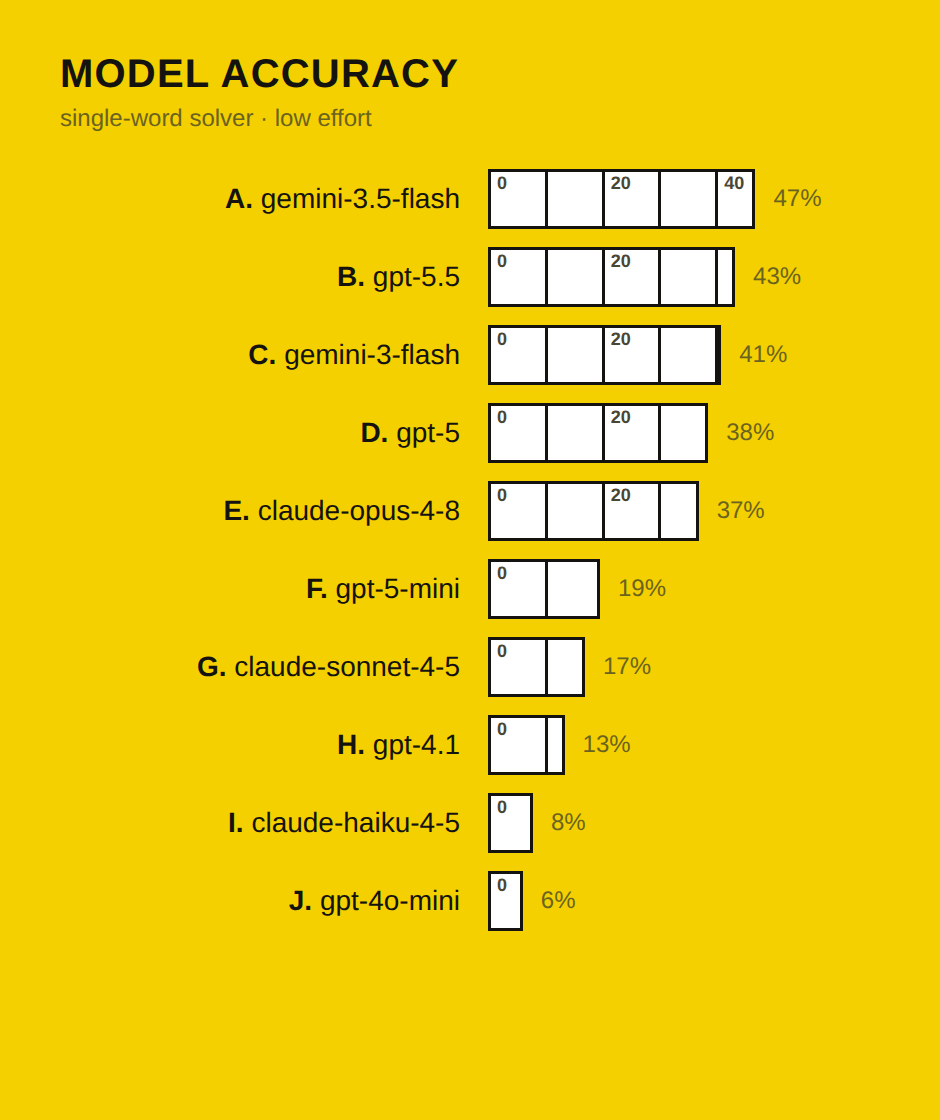
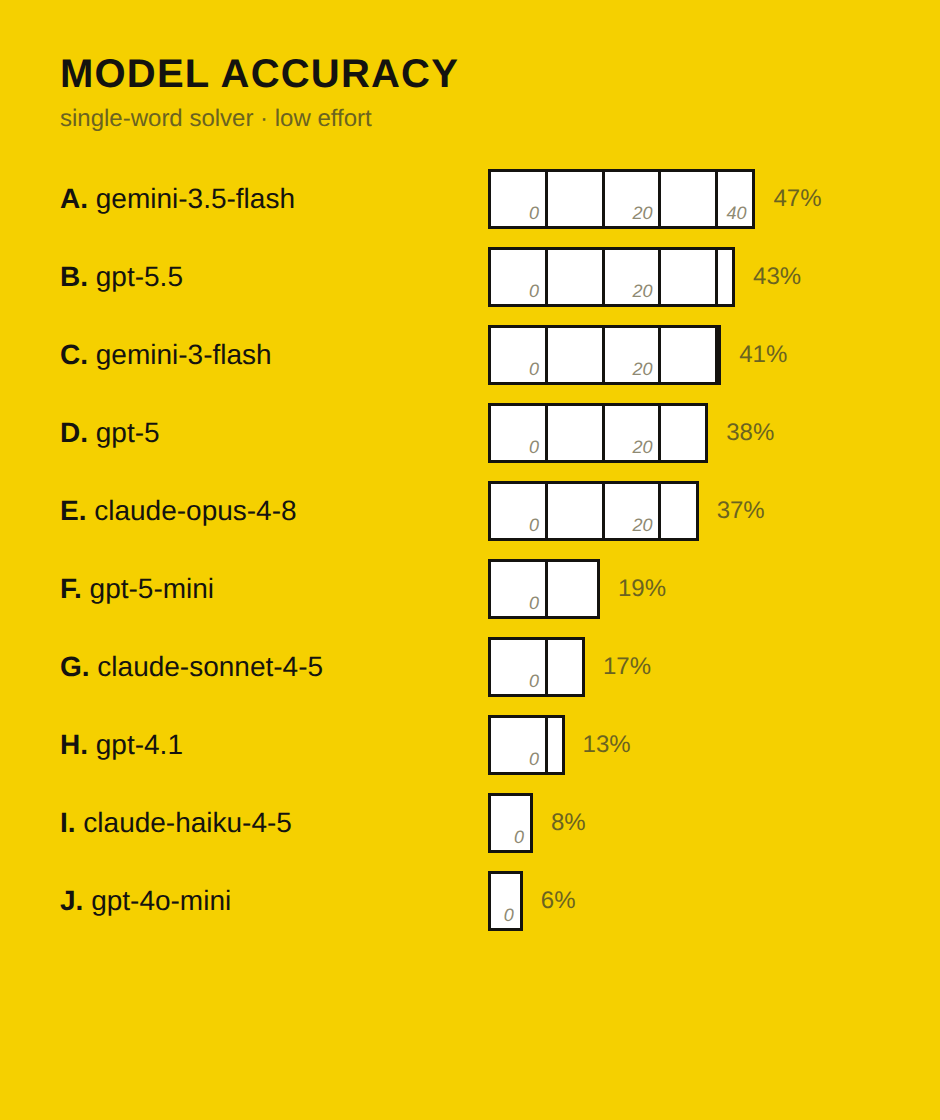
Refine puzzle charts per review
- All colors centralized in one :root block (easy re-theming).
- Bar: left-aligned clue labels; hint numbers italic light-grey, bottom-right.
- Scatter: y-axis up-arrow fixed; axis cells now bordered (like the solution
  word); ticks restyled as bottom-right italic hints; legend overlaid top-right
  (numbers + labels only, no cells).
- Heatmap: greyscale cells (axes stay yellow), square axis cells, contrast-aware
  hint values.

diff --git a/viz/puzzle-charts.css b/viz/puzzle-charts.css
@@ -1,17 +1,25 @@
 /* Karel's Crypto — puzzle-themed chart styles (no dependencies).
    Theme: De Standaard "Karels Crypto": vivid yellow ground, white puzzle cells
-   with shared dark gridlines, small corner "hint" numbers, clue-style labels. */
+   with shared dark gridlines, small corner "hint" numbers, clue-style labels.
 
+   ┌─────────────────────────────────────────────────────────────────────┐
+   │ ALL COLORS ARE CONFIGURED HERE. Change these to re-theme every chart. │
+   └─────────────────────────────────────────────────────────────────────┘ */
 :root {
-  --pz-yellow: #f5d000;        /* puzzle ground */
-  --pz-light: #fbec9c;         /* highlighted "solution word" cells / axes */
-  --pz-ink: #14130f;           /* gridlines + text */
-  --pz-hint: #4a4634;          /* corner hint numbers */
-  --pz-cell: 30px;             /* default cell size */
-  --pz-border: 1.6px;          /* gridline thickness */
-  /* heatmap ramp (pale -> deep gold) */
-  --pz-hm-low: 255, 248, 209;
-  --pz-hm-high: 226, 150, 0;
+  --pz-yellow: #f5d000;          /* puzzle ground (all chart backgrounds) */
+  --pz-light: #fbec9c;           /* highlighted "solution word" cells / axes */
+  --pz-ink: #14130f;             /* gridlines + primary text */
+  --pz-muted: #6a6320;           /* subtitles + bar value labels */
+  --pz-hint: #8f8a73;            /* the small italic "hint" numbers */
+  --pz-hint-on-dark: #e7e3d2;    /* hint numbers on dark heatmap cells */
+  --pz-cell-bg: #ffffff;         /* puzzle cell fill */
+
+  /* heatmap ramp — greyscale (low -> high). Axes stay yellow (--pz-light). */
+  --pz-hm-low: 240, 239, 234;    /* near-white */
+  --pz-hm-high: 51, 50, 46;      /* near-black */
+
+  --pz-cell: 30px;               /* default cell size */
+  --pz-border: 1.6px;            /* gridline thickness */
 }
 
 .pz {
@@ -19,46 +27,29 @@
   color: var(--pz-ink);
   -webkit-font-smoothing: antialiased;
 }
+.pz-panel { background: var(--pz-yellow); padding: 26px 30px; display: inline-block; box-sizing: border-box; }
+.pz-title { margin: 0 0 4px; font-size: 20px; font-weight: 800; letter-spacing: 0.6px; text-transform: uppercase; }
+.pz-subtitle { margin: 0 0 18px; font-size: 12px; color: var(--pz-muted); }
 
-.pz-panel {
-  background: var(--pz-yellow);
-  padding: 26px 30px;
-  display: inline-block;
-  box-sizing: border-box;
-}
-
-.pz-title {
-  margin: 0 0 4px;
-  font-size: 20px;
-  font-weight: 800;
-  letter-spacing: 0.6px;
-  text-transform: uppercase;
-}
-.pz-subtitle { margin: 0 0 18px; font-size: 12px; color: #6a6320; }
-
-/* shared cell ----------------------------------------------------------- */
-.pz-sq {
-  width: var(--pz-cell);
-  height: var(--pz-cell);
-  box-sizing: border-box;
-  position: relative;
-}
-.pz-hint {
+/* shared cell + hint ---------------------------------------------------- */
+.pz-sq { width: var(--pz-cell); height: var(--pz-cell); box-sizing: border-box; position: relative; }
+.pz-hint {                       /* light grey, italic, bottom-right of the cell */
   position: absolute;
-  top: 1px;
-  left: 3px;
+  right: 3px;
+  bottom: 2px;
   font-size: 9px;
   line-height: 1;
-  font-weight: 700;
+  font-style: italic;
   color: var(--pz-hint);
 }
+.pz-hint.on-dark { color: var(--pz-hint-on-dark); }
 
 /* ---- bar chart -------------------------------------------------------- */
 .pz-bar-row { display: flex; align-items: center; margin: 0 0 9px; }
 .pz-bar-row:last-child { margin-bottom: 0; }
 .pz-bar-label {
   flex: 0 0 var(--pz-label-w, 240px);
-  text-align: right;
+  text-align: left;              /* labels are left-aligned */
   padding-right: 14px;
   font-size: 14px;
   line-height: 1.15;
@@ -67,54 +58,47 @@
 .pz-track { display: flex; }
 .pz-track .pz-sq {
   border: var(--pz-border) solid var(--pz-ink);
-  background: #fff;
-  margin-left: calc(var(--pz-border) * -1); /* share gridlines */
+  background: var(--pz-cell-bg);
+  margin-left: calc(var(--pz-border) * -1);   /* share gridlines */
 }
 .pz-track .pz-sq:first-child { margin-left: 0; }
-.pz-bar-val { margin-left: 9px; font-size: 12px; color: #6a6320; align-self: center; }
+.pz-bar-val { margin-left: 9px; font-size: 12px; color: var(--pz-muted); align-self: center; }
 
 /* ---- scatter --------------------------------------------------------- */
 .pz-scatter-wrap { display: inline-grid; grid-template-columns: auto auto; grid-template-rows: auto auto; align-items: center; }
-.pz-ylabel {
-  writing-mode: vertical-rl; transform: rotate(180deg);
-  text-align: center; font-size: 13px; font-weight: 700; padding-right: 8px;
-}
-.pz-xlabel { grid-column: 2; text-align: center; font-size: 13px; font-weight: 700; padding-top: 8px; }
-.pz-grid { display: grid; }
-.pz-grid .pz-sq.pz-axis { background: var(--pz-light); }
-.pz-grid .pz-sq.pz-pt {
-  background: #fff;
-  border: var(--pz-border) solid var(--pz-ink);
-  display: flex; align-items: center; justify-content: center;
-  font-size: 12px; font-weight: 800;
-}
-.pz-tick { position: absolute; font-size: 9px; font-weight: 700; color: var(--pz-hint); }
-.pz-tick.x { bottom: 2px; right: 3px; }
-.pz-tick.y { top: 2px; left: 3px; }
+.pz-ylabel { grid-row: 1; grid-column: 1; display: flex; flex-direction: column; align-items: center; justify-content: center; padding-right: 8px; }
+.pz-yarrow { font-size: 15px; font-weight: 700; margin-bottom: 6px; }      /* upright up-arrow */
+.pz-ytext { writing-mode: vertical-rl; transform: rotate(180deg); font-size: 13px; font-weight: 700; }
+.pz-xlabel { grid-column: 2; grid-row: 2; text-align: center; font-size: 13px; font-weight: 700; padding-top: 8px; }
 
-.pz-legend { margin-top: 16px; display: grid; grid-template-columns: repeat(var(--pz-legend-cols, 2), auto); gap: 4px 18px; font-size: 12px; }
-.pz-legend-item { display: flex; align-items: center; gap: 7px; }
-.pz-chip {
-  width: 20px; height: 20px; border: var(--pz-border) solid var(--pz-ink);
-  background: #fff; font-size: 11px; font-weight: 800;
-  display: inline-flex; align-items: center; justify-content: center; flex: 0 0 auto;
+.pz-plot { position: relative; grid-column: 2; grid-row: 1; }
+.pz-grid { display: grid; }
+.pz-grid .pz-sq {                /* every cell reserves a (transparent) border so the grid aligns */
+  border: var(--pz-border) solid transparent;
+  margin: calc(var(--pz-border) * -1) 0 0 calc(var(--pz-border) * -1);
 }
+.pz-grid .pz-sq.pz-axis { background: var(--pz-light); border-color: var(--pz-ink); }  /* bordered cross */
+.pz-grid .pz-sq.pz-pt {
+  background: var(--pz-cell-bg); border-color: var(--pz-ink);
+  display: flex; align-items: center; justify-content: center; font-size: 12px; font-weight: 800;
+}
+.pz-legend-ov {                  /* overlaid, top-right, no cells — just numbers + labels */
+  position: absolute; top: 4px; right: 4px;
+  text-align: right; font-size: 11px; line-height: 1.4; color: var(--pz-ink);
+}
+.pz-legend-ov .n { font-weight: 800; margin-right: 5px; }
+.pz-legend-ov .l { color: #3f3b27; }
 
 /* ---- heatmap --------------------------------------------------------- */
 .pz-hm { display: inline-grid; }
-.pz-hm-cell {
+.pz-hm-cell, .pz-hm-head {
+  width: var(--pz-cell); height: var(--pz-cell);
   box-sizing: border-box;
   border: var(--pz-border) solid var(--pz-ink);
   margin: calc(var(--pz-border) * -1) 0 0 calc(var(--pz-border) * -1);
   display: flex; align-items: center; justify-content: center;
-  font-size: 13px; font-weight: 700; position: relative;
+  position: relative;
 }
-.pz-hm-head {
-  display: flex; align-items: center; justify-content: center;
-  font-size: 12px; font-weight: 700; background: var(--pz-light);
-  box-sizing: border-box; border: var(--pz-border) solid var(--pz-ink);
-  margin: calc(var(--pz-border) * -1) 0 0 calc(var(--pz-border) * -1);
-  padding: 2px 6px;
-}
+.pz-hm-head { font-size: 12px; font-weight: 700; background: var(--pz-light); }   /* axes stay yellow */
 .pz-hm-corner { background: transparent; border-color: transparent; }
-.pz-hm-axis-title { font-size: 12px; font-weight: 800; }
+.pz-hm-axis-title { font-size: 12px; font-weight: 800; margin-top: 8px; }

diff --git a/viz/puzzle-charts.js b/viz/puzzle-charts.js
@@ -104,11 +104,14 @@
 
     const p = panel(container, o);
     const wrap = make("pz-scatter-wrap", p);
-    const yl = make("pz-ylabel", wrap, o.yLabel);
-    yl.style.gridRow = "1"; yl.style.gridColumn = "1";
 
-    const grid = make("pz-grid", wrap);
-    grid.style.gridColumn = "2"; grid.style.gridRow = "1";
+    // y-axis label: an upright up-arrow (always points up) above vertical text.
+    const yl = make("pz-ylabel", wrap);
+    make("pz-yarrow", yl, "\u2191");
+    make("pz-ytext", yl, (o.yLabel || "").replace(/[\u2191\u2193\u2192\u2190]/g, "").trim());
+
+    const plot = make("pz-plot", wrap);
+    const grid = make("pz-grid", plot);
     const cs = o.cell || 30;
     grid.style.gridTemplateColumns = `repeat(${C}, ${cs}px)`;
     grid.style.gridTemplateRows = `repeat(${R}, ${cs}px)`;
@@ -129,19 +132,17 @@
     const cells = {};
     for (let r = 0; r < R; r++) for (let c = 0; c < C; c++) {
       const sq = make("pz-sq", grid);
-      if (c === 0 || r === R - 1) sq.classList.add("pz-axis"); // the light-yellow cross
+      if (c === 0 || r === R - 1) sq.classList.add("pz-axis"); // bordered light-yellow cross
       cells[r + "," + c] = sq;
     }
-    // axis ticks (hint numbers) at min/mid/max
+    // axis ticks: hint-styled (italic grey, bottom-right of the cell) at min/mid/max
     const xtick = (frac, val) => {
       const c = 1 + Math.round(frac * (C - 2));
-      const t = document.createElement("div"); t.className = "pz-tick x"; t.textContent = fmt(val, o.xUnit);
-      cells[(R - 1) + "," + c].appendChild(t);
+      make("pz-hint", cells[(R - 1) + "," + c], fmt(val, o.xUnit));
     };
     const ytick = (frac, val) => {
       const r = R - 2 - Math.round(frac * (R - 2));
-      const t = document.createElement("div"); t.className = "pz-tick y"; t.textContent = fmt(val, o.yUnit);
-      cells[r + ",0"].appendChild(t);
+      make("pz-hint", cells[r + ",0"], fmt(val, o.yUnit));
     };
     [0, 0.5, 1].forEach((f) => { xtick(f, xMin + f * (xMax - xMin)); ytick(f, yMin + f * (yMax - yMin)); });
 
@@ -153,18 +154,16 @@
       sq.textContent = String(i + 1);
     });
 
-    make("pz-xlabel", wrap, o.xLabel);
-
-    // legend
-    const legend = make("pz-legend", p);
-    legend.style.setProperty("--pz-legend-cols", o.legendCols);
+    // legend: overlaid top-right of the plot — just numbers + labels, no cells.
+    const legend = make("pz-legend-ov", plot);
     pts.forEach((pt, i) => {
-      const item = make("pz-legend-item", legend);
-      make("pz-chip", item, String(i + 1));
-      const txt = pt.label +
-        (o.showCoords === false ? "" : `  (${fmt(pt.x, o.xUnit)}, ${fmt(pt.y, o.yUnit)})`);
-      item.appendChild(document.createTextNode(txt));
+      const item = make("", legend);
+      const n = document.createElement("span"); n.className = "n"; n.textContent = String(i + 1);
+      const l = document.createElement("span"); l.className = "l"; l.textContent = pt.label;
+      item.appendChild(n); item.appendChild(l);
     });
+
+    make("pz-xlabel", wrap, o.xLabel);
     return p;
   }
 
@@ -181,7 +180,7 @@
     const container = resolve(el);
     container.innerHTML = "";
     const o = Object.assign(
-      { unit: "", cell: 46, rowTitle: "", colTitle: "", min: null, max: null }, opts
+      { unit: "", cell: 50, colTitle: "", min: null, max: null }, opts
     );
     const vals = o.values.flat().filter((v) => v != null);
     const lo = o.min != null ? o.min : Math.min(...vals);
@@ -190,11 +189,11 @@
 
     const cols = o.colLabels.length;
     const hm = make("pz-hm", p);
-    hm.style.gridTemplateColumns = `auto repeat(${cols}, ${o.cell}px)`;
+    hm.style.setProperty("--pz-cell", o.cell + "px");
+    hm.style.gridTemplateColumns = `repeat(${cols + 1}, ${o.cell}px)`; // square header + cells
 
     // header row: corner + column labels
-    const corner = make("pz-hm-head pz-hm-corner", hm);
-    corner.textContent = o.colTitle && o.rowTitle ? "" : "";
+    make("pz-hm-head pz-hm-corner", hm);
     o.colLabels.forEach((cl) => make("pz-hm-head", hm, cl));
 
     o.rowLabels.forEach((rl, r) => {
@@ -202,14 +201,14 @@
       o.colLabels.forEach((_, c) => {
         const v = o.values[r][c];
         const cell = make("pz-hm-cell", hm);
-        cell.style.height = o.cell + "px";
         if (v == null) { cell.style.background = "transparent"; cell.style.borderColor = "transparent"; return; }
         const t = (v - lo) / (hi - lo || 1);
-        cell.style.background = ramp(t);
-        make("pz-hint", cell, fmt(v, o.unit)); // the "hint value" = the number
+        cell.style.background = ramp(t);                 // greyscale ramp
+        const hint = make("pz-hint", cell, fmt(v, o.unit)); // the "hint value" = the number
+        if (t > 0.55) hint.classList.add("on-dark");     // light hint on dark cells
       });
     });
-    if (o.colTitle) make("pz-hm-axis-title", p, o.colTitle).style.marginTop = "8px";
+    if (o.colTitle) make("pz-hm-axis-title", p, o.colTitle);
     return p;
   }
 